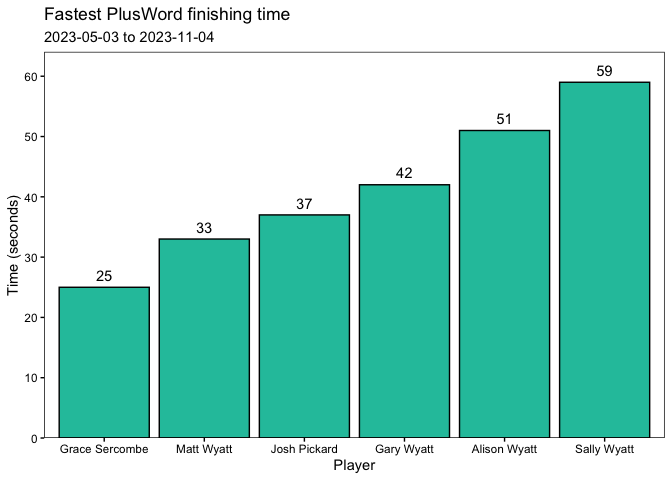
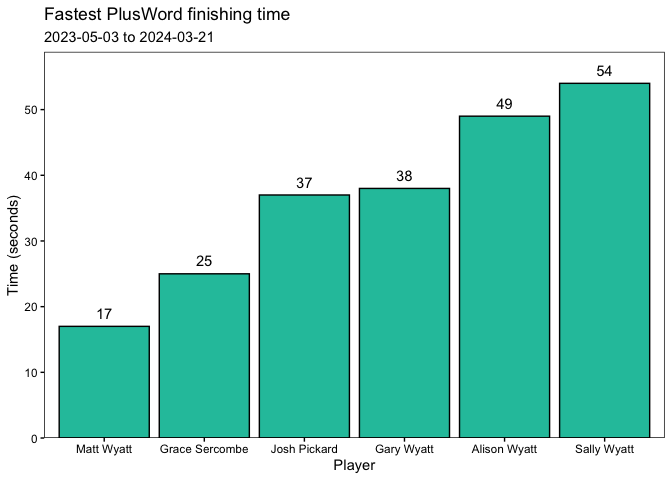
Added new graph to document and updated with latest data

diff --git a/README.md b/README.md
@@ -1,16 +1,15 @@
-PlusWord Analysis
-================
+# PlusWord Analysis
 
 ## Overall Ranking
 
-| Player         |   1 |   2 |   3 |   4 |   5 |   6 | Games |
-|:---------------|----:|----:|----:|----:|----:|----:|------:|
-| Matt Wyatt     |  85 |  63 |  18 |  11 |   4 |   1 |   182 |
-| Grace Sercombe |  70 |  50 |  28 |  16 |   0 |   0 |   164 |
-| Gary Wyatt     |  20 |  35 |  65 |  37 |  18 |   4 |   179 |
-| Alison Wyatt   |   7 |  24 |  42 |  67 |  29 |   4 |   173 |
-| Sally Wyatt    |   5 |   4 |  24 |  27 |  46 |   9 |   115 |
-| Josh Pickard   |   4 |   5 |   4 |   6 |   6 |   7 |    32 |
+| Player         |   1 |   2 |   3 |   4 |   5 |   6 |   7 | Games |
+|:---------------|----:|----:|----:|----:|----:|----:|----:|------:|
+| Matt Wyatt     | 189 | 119 |  35 |  25 |   6 |   1 |   0 |   375 |
+| Grace Sercombe | 122 |  95 |  36 |  22 |   7 |   1 |   0 |   283 |
+| Gary Wyatt     |  25 |  45 | 100 |  96 |  34 |  13 |   0 |   313 |
+| Alison Wyatt   |   9 |  36 |  70 |  81 |  85 |  17 |   0 |   298 |
+| Sally Wyatt    |   7 |  11 |  37 |  61 |  58 |  36 |   0 |   210 |
+| Josh Pickard   |   4 |  13 |  16 |  14 |  17 |  12 |   1 |    77 |
 
 ![](plusword_analysis_files/figure-commonmark/total_wins-1.png)
 
@@ -20,8 +19,8 @@ Longest winning streaks for each player.
 
 | Player         | Longest streak |
 |:---------------|---------------:|
+| Matt Wyatt     |              8 |
 | Grace Sercombe |              5 |
-| Matt Wyatt     |              5 |
 | Alison Wyatt   |              2 |
 | Gary Wyatt     |              2 |
 | Josh Pickard   |              1 |
@@ -39,17 +38,16 @@ Ten fastest times overall.
 
 | Rank | Player         | Date       | Time (s) |
 |-----:|:---------------|:-----------|---------:|
-|    1 | Grace Sercombe | 2023-10-19 |       25 |
-|    2 | Matt Wyatt     | 2023-11-04 |       33 |
-|    3 | Matt Wyatt     | 2023-08-02 |       34 |
-|    3 | Matt Wyatt     | 2023-10-09 |       34 |
-|    5 | Matt Wyatt     | 2023-08-28 |       35 |
-|    5 | Grace Sercombe | 2023-09-30 |       35 |
-|    7 | Grace Sercombe | 2023-06-27 |       36 |
-|    7 | Matt Wyatt     | 2023-09-19 |       36 |
-|    7 | Matt Wyatt     | 2023-10-15 |       36 |
-|   10 | Grace Sercombe | 2023-05-06 |       37 |
-|   10 | Josh Pickard   | 2023-10-19 |       37 |
+|    1 | Matt Wyatt     | 2024-01-22 |       17 |
+|    2 | Grace Sercombe | 2023-10-19 |       25 |
+|    3 | Grace Sercombe | 2023-11-09 |       26 |
+|    4 | Matt Wyatt     | 2024-02-15 |       27 |
+|    5 | Grace Sercombe | 2024-01-22 |       28 |
+|    6 | Matt Wyatt     | 2023-11-13 |       29 |
+|    7 | Matt Wyatt     | 2024-02-26 |       30 |
+|    8 | Matt Wyatt     | 2024-01-03 |       31 |
+|    8 | Matt Wyatt     | 2024-02-19 |       31 |
+|    8 | Grace Sercombe | 2024-02-26 |       31 |
 
 ## Time since last win
 
